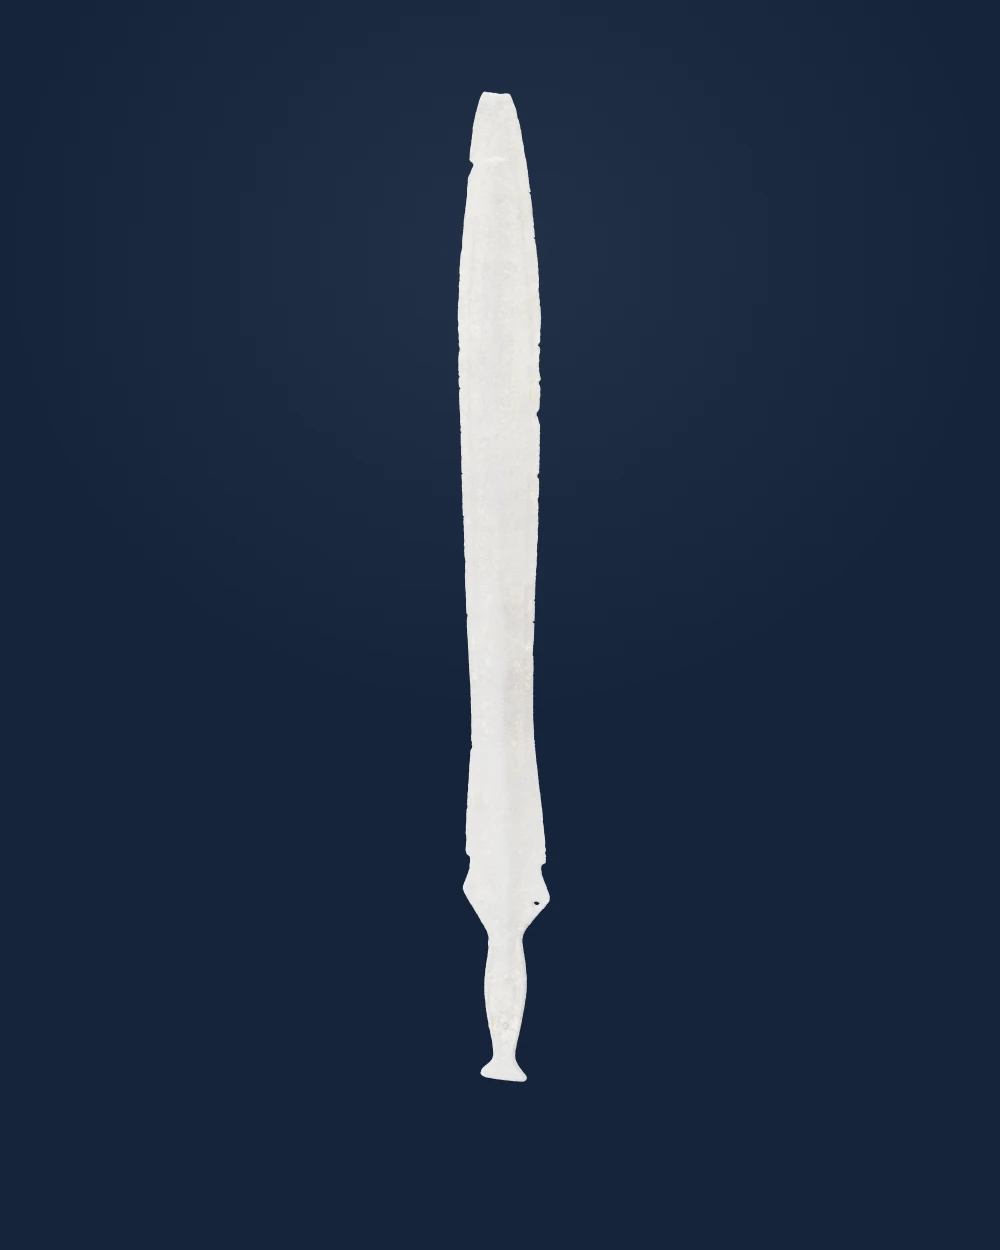
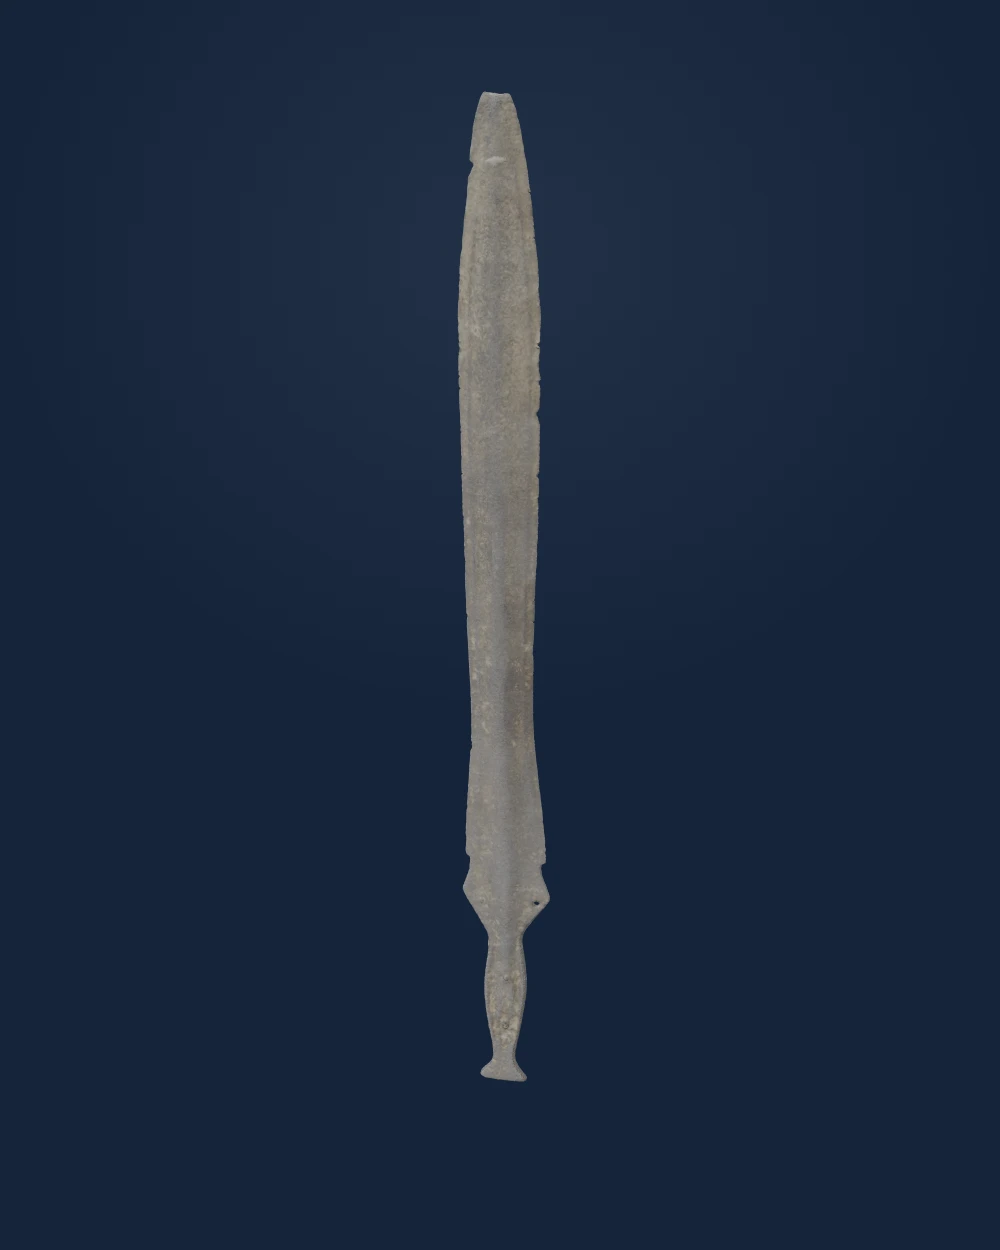
Restore visible surface colors on the NMI W93 sword

Changed region(s): [[0.434, 0.0624, 0.558, 0.8736]]

diff --git a/STATUS.md b/STATUS.md
@@ -1932,3 +1932,10 @@ Concurrent publication integrated: main `adf948603428fe313a5b5fcbd2678fe7f69fc6f
 - Permanent private source/derivative backups, the final recovery map and key-free review/control records were uploaded and verified by full readback. Exact bounded cleanup removed twenty-one canonical files totaling 559,052,712 logical bytes. All seven held originals, public/build-required assets and the earlier two-work removal record were preserved; the cleanup journal has twenty-one completed removals and no unresolved quarantine files.
 - All eighteen public file sets passed full live checks again after offload. The reproducible ignored build output was also removed after validation (1,112,985,827 logical bytes); source code, public assets and review evidence remain. Private completion and recovery records retain exact restore bindings; no private Drive identifiers are published here.
 - The batch is eighteen of the requested twenty-five, with seven places still unfilled. Future acquisition work must find additional suitable, distinct and reviewable sources; held or interrupted models are not published merely to meet the count. This documentation-only confirmation does not require a site rebuild.
+
+
+## 2026-11-06 — NMI W93 sword surface correction
+
+- Owner: this Codex chat, branch `codex/sword-surface-review-20261106`. Investigated the reported missing texture on the combat-damaged bronze sword. The served GLB contains no image textures but has varying, non-gray source vertex colors on all 216,082 preview vertices. The source viewer also uses vertex colors; its reference thumbnail shows gray/brown and ochre surface variation.
+- Corrected this work’s legacy exposure override from 1.8 to 0.3 after actual comparison at 0.44, 0.3 and 0.2. Geometry, vertex colors, source material and other lighting values remain unchanged. Regenerated and visually checked the thumbnail and matching poster; fixed the source-record URL’s erroneous trailing characters and clarified the capture label.
+- Scoped comparison confirms all other catalog entries and appearance settings remain unchanged. Live diagnosis and preview SHA verification passed; no full-resolution source was downloaded, replaced or deleted. Publication/build and final live confirmation are recorded separately below.
